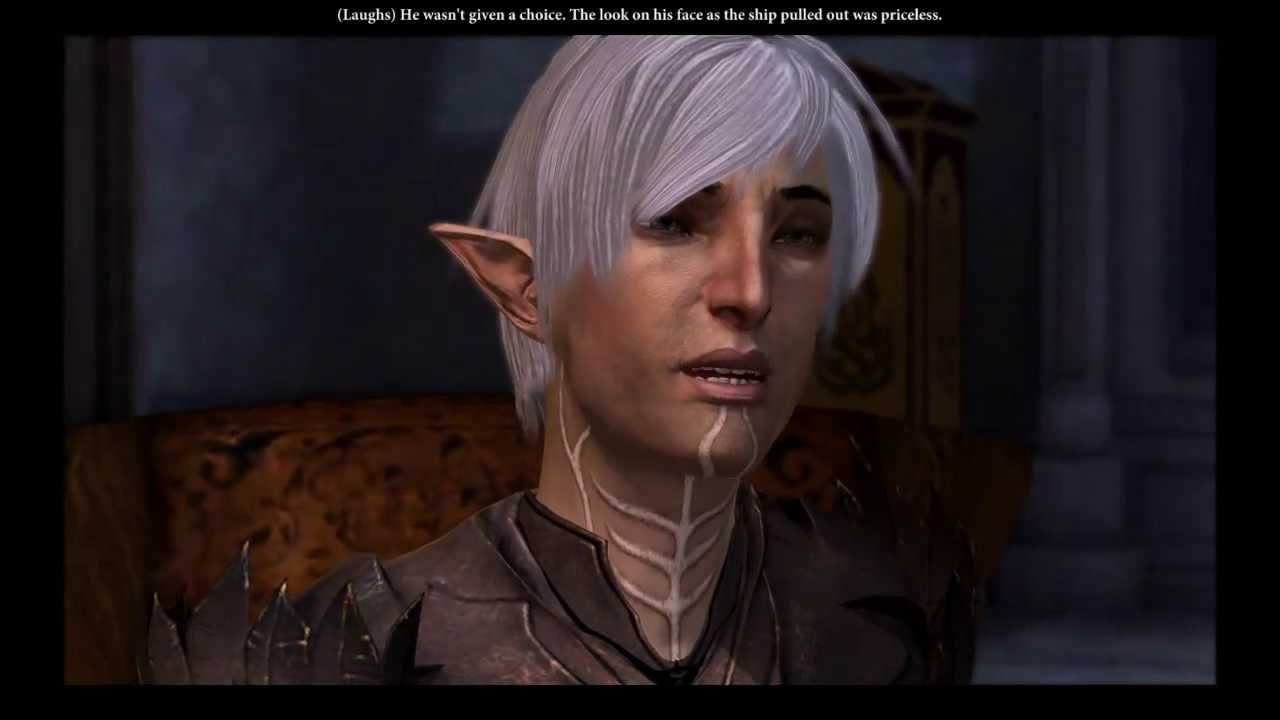
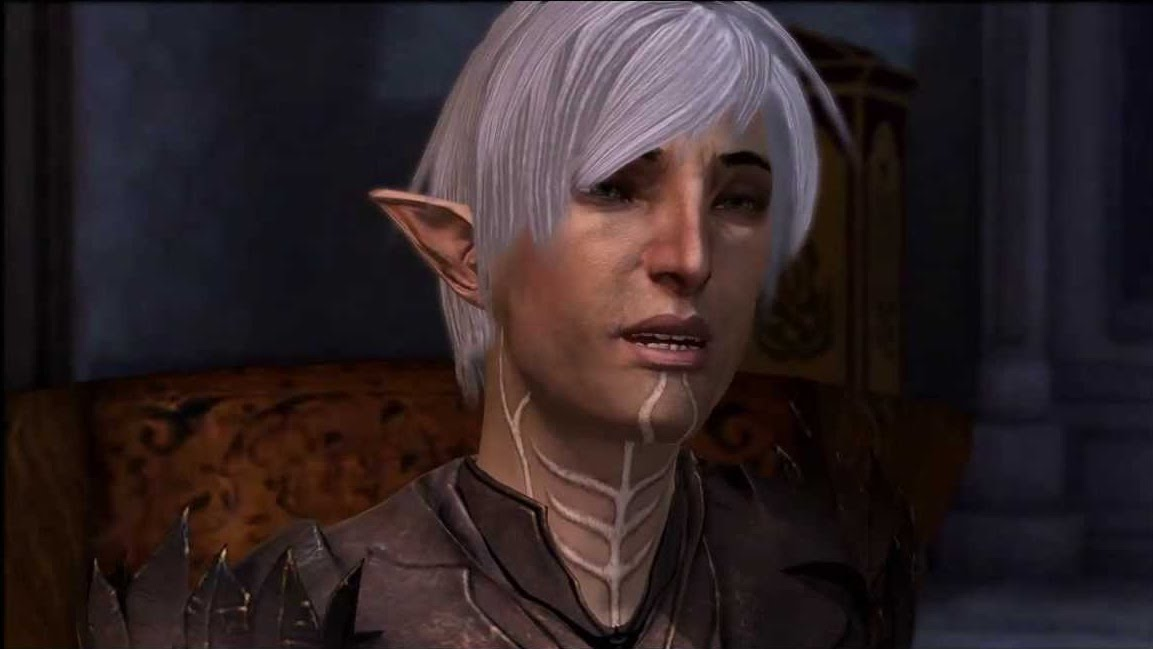
added fenris to gallery

diff --git a/gallery.php b/gallery.php
@@ -97,6 +97,11 @@ style="background-image: url('resources/images/D-age.jpg');">
                     <img src="resources/images/anders.jpg" alt="da2">
                     </a>
                 </td>
+                <td>
+                    <a href="resources/images/fenris.jpg" target="_blank">
+                    <img src="resources/images/fenris.jpg" alt="da2">
+                    </a>
+                </td>
             </tr>
         </table>
 
